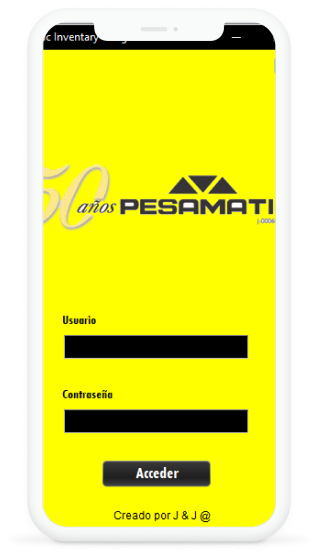
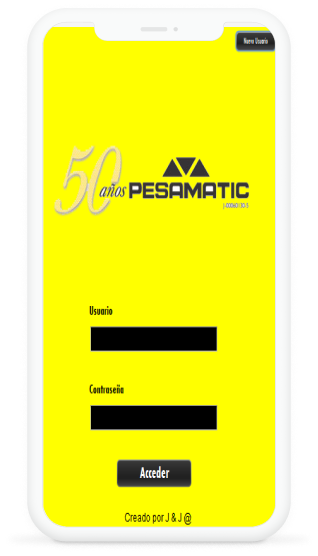
update 2 perfil

diff --git a/index.html b/index.html
@@ -18,7 +18,7 @@
                 <nav aria-label="menu-nav" class="menu">
                     <ul>
                         <li>
-                            <a class="is-active" href="#main">Hola</a>
+                            <a href="#main">Hola</a>
                         </li>
                         <li>
                             <a href="#project">Proyectos</a>
@@ -36,7 +36,7 @@
     <div class="wrapper">
         <section aria-label="main" id="main" class="hero">
             <div class="hero-image">
-                <img src="./images/perfil1.png" width="328" height="330" alt="">
+                <img src="./images/perfil2.png" width="328" height="330" alt="">
             </div>
             <div class="hero-description">
                 <h1>

diff --git a/css/menu.css b/css/menu.css
@@ -22,4 +22,13 @@
     .menu{
         display: block;
     }
+
+    .menu li a {
+        display:  block;
+        padding: 20px;
+    }
+
+    .menu li a:hover {
+        background: var(--purple);
+    }
 }
